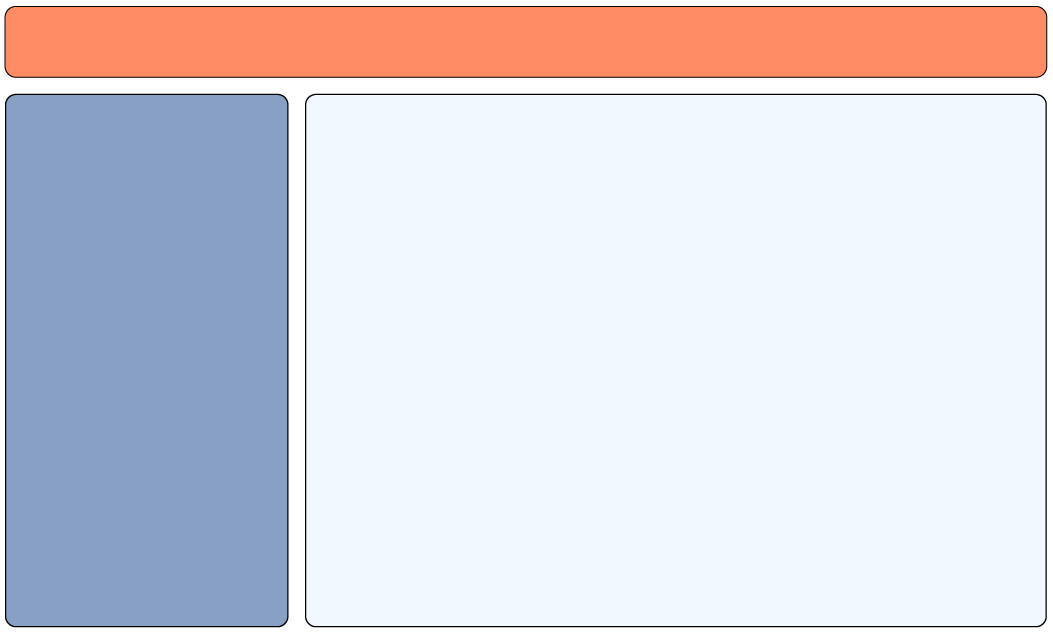
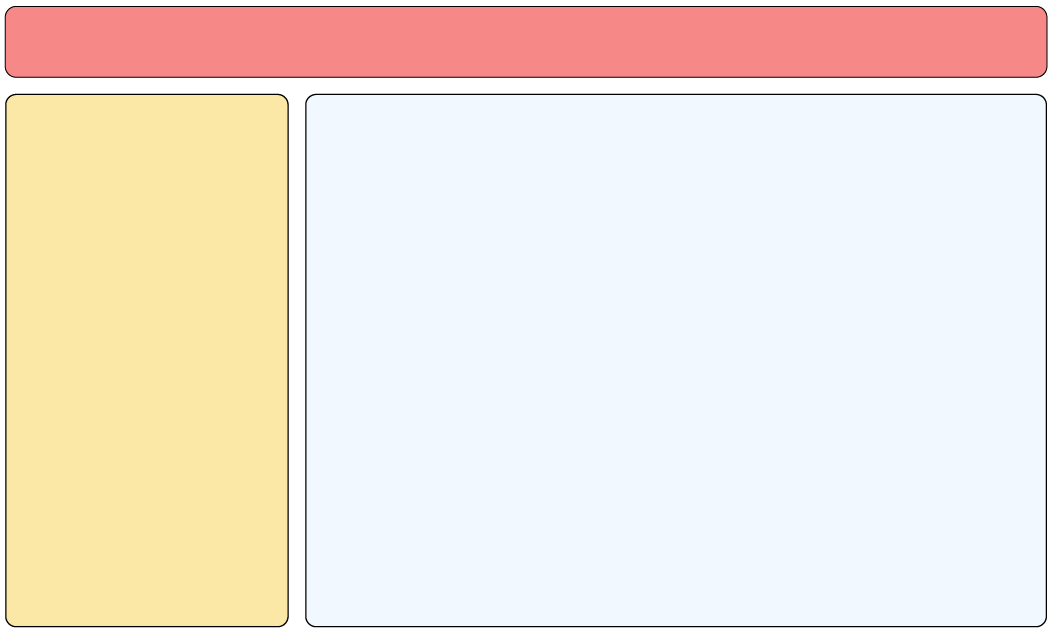
Client: Fixes

diff --git a/Client/Pages/MarkAttendance/SelectSubjectPage.py b/Client/Pages/MarkAttendance/SelectSubjectPage.py
@@ -1,7 +1,9 @@
 from tkinter import *
 import tkinter as tk
 from Scrollbar import scrollbar
+from PIL import ImageTk, Image
 import datetime
+from tkinter import messagebox
 from ServerSide.SelectOperation import SelectOperation
 from Eff import Eff
 from Pages.MarkAttendance.MarkAttendancePage import MarkAttendancePage
@@ -15,6 +17,11 @@ class SelectSubjectPage():
         self.secondaryTextColor = "#474545"
         self.orangePrimColor = "#FF8C64"
         self.primaryTextColor = "#0F4189"
+        self.refreshButPng = ImageTk.PhotoImage(
+            Image.open(
+                "Assets/Home_Page_Assets/Buttons/refreshbutton.png"
+            )
+        )
 
     def draw(self):
         self.frame = Frame(self.parent, bg=self.ligBluePrimColor, width=730, height=524)
@@ -27,6 +34,11 @@ class SelectSubjectPage():
                           bg=self.ligBluePrimColor,
                           bd=0, font=(self.font, 12, "normal"))
         dateLabel.place(x=300, y=15)
+
+        refreshBut = Button(self.frame, bd=0, bg=self.ligBluePrimColor, activebackground=self.ligBluePrimColor,
+                            image=self.refreshButPng, command=self.refresh)
+        refreshBut.photo = self.refreshButPng
+        refreshBut.place(x=620, y=12)
 
         selectLabel = Label(self.frame, text="Select a", fg=self.secondaryTextColor, bg=self.ligBluePrimColor,
                             bd=0, font=(self.font, 25, "normal"))
@@ -54,14 +66,26 @@ class SelectSubjectPage():
         margin = Label(content_frame, bd=0, bg=self.ligBluePrimColor)
         margin.grid(row=0, column=0, padx=370)
 
+        date = f"{currentDate[2]}-{currentDate[1]}-{currentDate[0]}"
         def select(data, username):
-            MarkAttendancePage(self.parent, data, username).draw()
+            if SelectOperation().checkSubjectAttendance(date, data[3]):
+                messagebox.showinfo(title="Already Exist", message="You Already Marked Attendance Successfully")
+            else:
+                MarkAttendancePage(self.parent, data, username).draw()
 
         def drawTile(row, data):
-            l = Label(content_frame, bd=0, bg=self.ligBluePrimColor, text=f"'{data[0]}'    {data[1]} {data[2]}{(Eff(int(data[2])).get())} Year", fg=self.primaryTextColor,
-                      font=(self.font, 20, "bold"))
-            l.grid(row=row, column=0, pady=10)
-            l.bind("<Button-1>", lambda e: select(data, self.username))
+            if SelectOperation().checkSubjectAttendance(date, data[3]):
+                l = Label(content_frame, bd=0, bg=self.ligBluePrimColor, text=f"'{data[0]}'    {data[1]} {data[2]}{(Eff(int(data[2])).get())} Year", fg="#0F9D58",
+                          font=(self.font, 20, "bold"))
+                l.grid(row=row, column=0, pady=10)
+                # l.bind("<Button-1>", lambda e: select(data, self.username))
+            else:
+                l = Label(content_frame, bd=0, bg=self.ligBluePrimColor,
+                          text=f"'{data[0]}'    {data[1]} {data[2]}{(Eff(int(data[2])).get())} Year",
+                          fg=self.primaryTextColor,
+                          font=(self.font, 20, "bold"))
+                l.grid(row=row, column=0, pady=10)
+                l.bind("<Button-1>", lambda e: select(data, self.username))
 
         rawData = SelectOperation().getSubjectAccordingToTeacher(self.username)
 
@@ -76,3 +100,6 @@ class SelectSubjectPage():
                       font=(self.font, 20, "bold"))
             empty.grid(row=1, column=0, padx=10)
 
+    def refresh(self):
+        self.frame.destroy()
+        self.draw()

diff --git a/Client/Pages/MarkAttendance/MarkAttendancePage.py b/Client/Pages/MarkAttendance/MarkAttendancePage.py
@@ -7,6 +7,7 @@ from PIL import ImageTk, Image
 from ServerSide.SelectOperation import SelectOperation
 from tkinter import messagebox
 from ServerSide.InsertOperation import InsertOperation
+import datetime
 
 class MarkAttendancePage():
     def __init__(self, parent, data, username):
@@ -49,7 +50,6 @@ class MarkAttendancePage():
 
         rawCurrentDate = str(datetime.date.today())
         currentDate = rawCurrentDate.split("-")
-
         dateLabel = Label(self.frame, text=f"Date :- {currentDate[2]}-{currentDate[1]}-{currentDate[0]}", fg="black",
                           bg=self.ligBluePrimColor,
                           bd=0, font=(self.font, 12, "normal"))
@@ -148,8 +148,8 @@ class MarkAttendancePage():
 
             def submit():
                 if len(presentStudent) > 0:
-                    print(presentStudent)
-                    if InsertOperation().insertAttendance(rawData, presentStudent, self.data[4], self.data[2], teacher_id, self.data[3]):
+                    date = f"{currentDate[2]}-{currentDate[1]}-{currentDate[0]}"
+                    if InsertOperation().insertAttendance(rawData, presentStudent, self.data[4], self.data[2], teacher_id, self.data[3], date):
                         messagebox.showinfo(title="Success", message="Attendance Submitted Successfully !")
                         self.destroy()
                     else:

diff --git a/Client/HomePage.py b/Client/HomePage.py
@@ -8,6 +8,8 @@ class HomePage():
         self.username = username
         self.backgroundPng = ImageTk.PhotoImage(file=("Assets/Home_Page_Assets/background.png"))
         self.ligBluePrimColor = "#F2F8FF"
+        self.menu_bar_color = "#F78888"
+        self.font = "Bahnschrift"
 
     def draw(self):
         self.home_page_frame = Frame(self.root, bg="white", width=1080, height=650)
@@ -16,6 +18,13 @@ class HomePage():
         self.background = Label(self.home_page_frame, bg="white", bd=0, image=self.backgroundPng)
         self.background.photo = self.backgroundPng
         self.background.place(x=12, y=5)
+
+        self.menu_bar = Frame(self.home_page_frame, bg=self.menu_bar_color, width=1032, height=63)
+        self.menu_bar.place(x=21, y=15)
+
+        teacherName = Label(self.menu_bar, text=f"@{self.username}", bg=self.menu_bar_color, bd=0,
+                            fg="white", font=(self.font, 25, 'normal'))
+        teacherName.place(x=8, y=5)
 
         self.mark_attendance_panel = Frame(self.home_page_frame, bg=self.ligBluePrimColor, width=730, height=524)
         self.mark_attendance_panel.place(x=323, y=103)

diff --git a/Admin/studentPanelFrame/addStudentPage.py b/Admin/studentPanelFrame/addStudentPage.py
@@ -291,7 +291,7 @@ class AddStudentPage():
             rawDate = currentDate.split("-")
             currentYear = int(rawDate[0])
             if dobValid:
-                if int(dob_year) >= currentYear-10 or int(dob_year) < 1950:
+                if int(dob_year) >= currentYear-16 or int(dob_year) < 1950:
                     validate = False
                     yLabel.config(fg="red")
                     dobLabel.config(fg="red")
